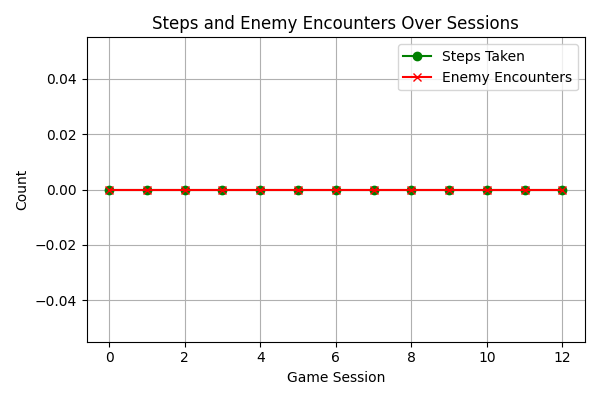
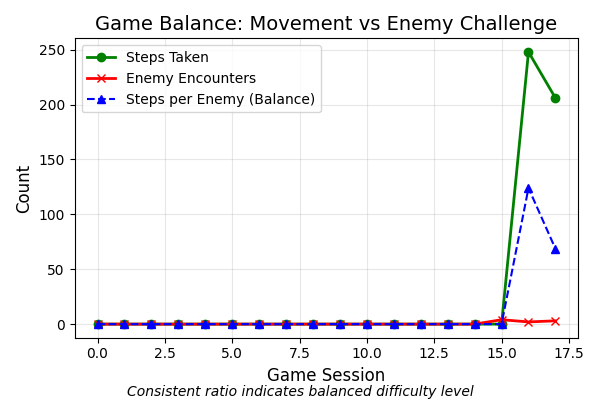
visualize worked

diff --git a/visualize_game_data.py b/visualize_game_data.py
@@ -39,15 +39,63 @@ def generate_game_stats():
     plt.savefig("/Users/ppppphrt/MazeRunner/stat_pic/bar_chart_avg_keys_collisions.png")
     plt.close()
 
+    # Line chart for navigation efficiency analysis
+    plt.figure(figsize=(8, 5))
+    plt.plot(df["steps_taken"], label="Steps Taken", marker="o", color="green", linewidth=2)
+    plt.plot(df["enemy_encounters"], label="Enemy Encounters", marker="x", color="red", linewidth=2)
+
+    # Calculate and plot wall collisions per step (efficiency metric)
+    if "wall_collisions" in df.columns:
+        plt.plot(df["wall_collisions"], label="Wall Collisions", marker="s", color="orange", linewidth=2)
+        efficiency_ratio = df["steps_taken"] / (df["wall_collisions"] + 1)  # Add 1 to avoid division by zero
+        plt.plot(efficiency_ratio, label="Steps/Collision Ratio", marker="^", color="purple",
+                 linestyle="--", linewidth=1.5)
+
+    plt.title("Navigation Efficiency Analysis", fontsize=14)
+    plt.xlabel("Game Session", fontsize=12)
+    plt.ylabel("Count / Efficiency Ratio", fontsize=12)
+    plt.legend(loc="best")
+    plt.grid(True, alpha=0.3)
+
+    # Add annotation about efficiency
+    plt.figtext(0.5, 0.01, "Higher steps-to-collision ratio indicates better navigation efficiency",
+                ha="center", fontsize=10, style="italic")
+
+    plt.tight_layout()
+    plt.savefig("/Users/ppppphrt/MazeRunner/stat_pic/navigation_efficiency_analysis.png")
+    plt.close()
+
+    # Bar chart
+    avg_wall_col = df["wall_collisions"].mean()
+    avg_step = df["steps_taken"].mean()
+    plt.figure(figsize=(6, 4))
+    plt.bar(["Wall Collisions", "Step Taken"], [avg_wall_col, avg_step], color=["skyblue", "salmon"])
+    plt.title("Wall Collisions & Step Taken")
+    plt.ylabel("Average Count")
+    plt.tight_layout()
+    plt.savefig("/Users/ppppphrt/MazeRunner/stat_pic/bar_chart_avg_keys_collisions.png")
+    plt.close()
+
     # Line chart
     plt.figure(figsize=(6, 4))
-    plt.plot(df["steps_taken"], label="Steps Taken", marker="o", color="green")
-    plt.plot(df["enemy_encounters"], label="Enemy Encounters", marker="x", color="red")
-    plt.title("Steps and Enemy Encounters Over Sessions")
-    plt.xlabel("Game Session")
-    plt.ylabel("Count")
-    plt.legend()
-    plt.grid(True)
+    plt.plot(df["steps_taken"], label="Steps Taken", marker="o", color="green", linewidth=2)
+    plt.plot(df["enemy_encounters"], label="Enemy Encounters", marker="x", color="red", linewidth=2)
+
+    # Calculate and plot the ratio of steps to enemy encounters
+    steps_to_enemy_ratio = df["steps_taken"] / df["enemy_encounters"].replace(0, 1)  # Avoid division by zero
+    plt.plot(steps_to_enemy_ratio, label="Steps per Enemy (Balance)", marker="^", color="blue", linestyle="--",
+             linewidth=1.5)
+
+    plt.title("Game Balance: Movement vs Enemy Challenge", fontsize=14)
+    plt.xlabel("Game Session", fontsize=12)
+    plt.ylabel("Count", fontsize=12)
+    plt.legend(loc="best")
+    plt.grid(True, alpha=0.3)
+
+    # Add annotation about balance
+    plt.figtext(0.5, 0.01, "Consistent ratio indicates balanced difficulty level",
+                ha="center", fontsize=10, style="italic")
+
     plt.tight_layout()
     plt.savefig("/Users/ppppphrt/MazeRunner/stat_pic/line_chart_steps_enemy.png")
     plt.close()
